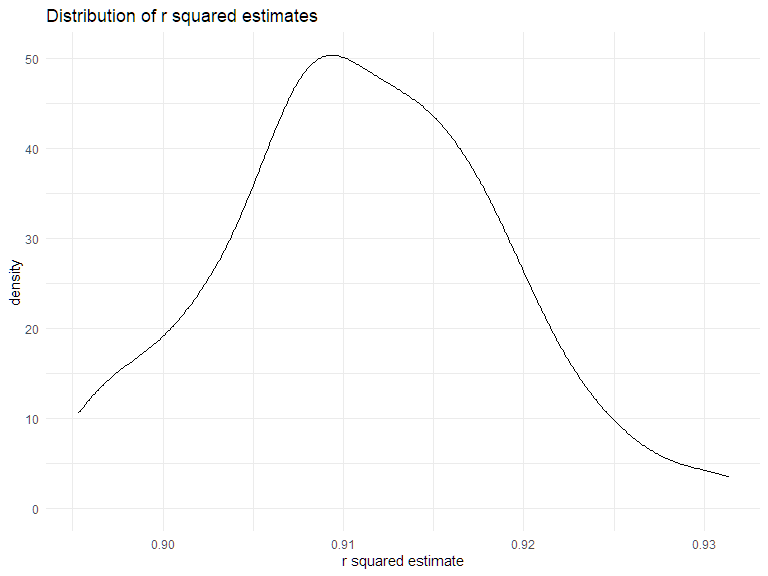
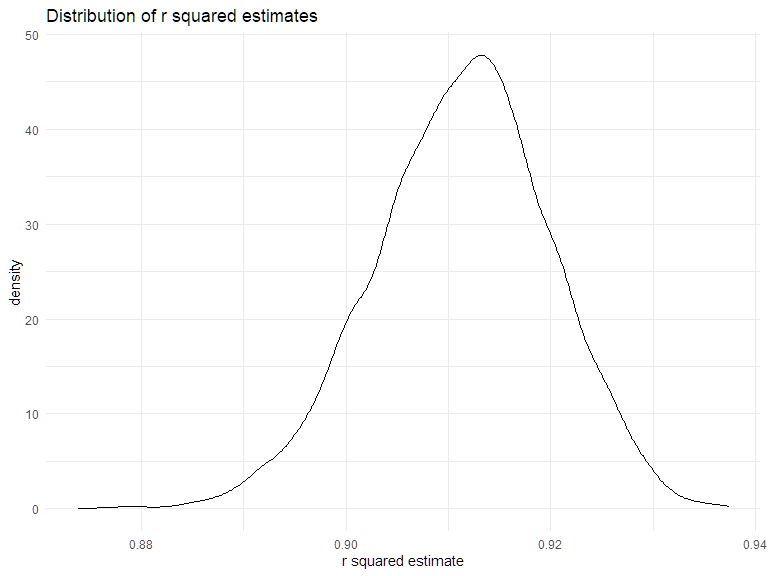
p1:change n to 5000

diff --git a/p8105_hw6_tz2520.md b/p8105_hw6_tz2520.md
@@ -35,7 +35,7 @@ weather_df =
 ``` r
 boot_straps = 
   weather_df %>%
-  bootstrap(n = 100, id = "strap_num") %>% 
+  bootstrap(n = 5000, id = "strap_num") %>% 
   mutate(
     models = map(.x = strap, ~lm(tmax ~ tmin, data = .x)),
     results_r = map(models, broom::glance),
@@ -73,7 +73,7 @@ boot_straps %>%
 **Description of r squared estimates**
 
 This distribution of r squared estimates appears to follow a normal
-distribution, centered around 0.905.
+distribution, centered around 0.91.
 
 ### Distribution of log beta product
 
@@ -92,7 +92,7 @@ boot_straps %>%
 **Description of log beta product**
 
 This distribution of log beta product appears to follow a normal
-distribution, centered around 2.02.
+distribution, centered around 2.01.
 
 ### 95% Confidence interval for r squared
 
@@ -107,7 +107,7 @@ boot_straps %>%
     ## # A tibble: 1 × 2
     ##   ci_lower ci_upper
     ##      <dbl>    <dbl>
-    ## 1    0.896    0.926
+    ## 1    0.894    0.927
 
 ### 95% Confidence interval for log beta product
 
